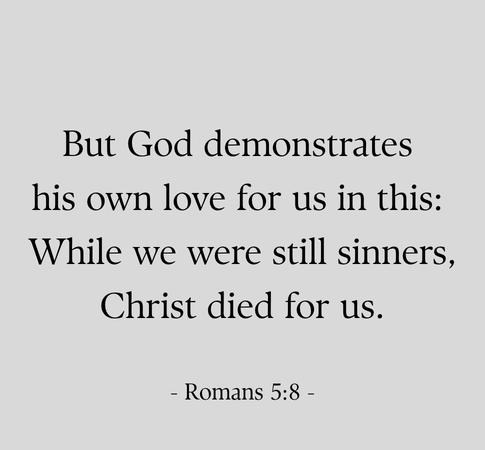
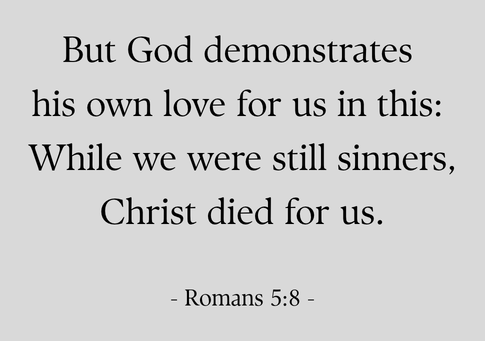
Thy Kingdom Come: subtitle under title, tighter crop on verse images
Adds optional `subtitle` frontmatter rendered under the post title.

diff --git a/src/lib/blog.ts b/src/lib/blog.ts
@@ -3,6 +3,7 @@ import { GENERATED_POSTS } from "@/lib/generated-posts";
 export type BlogPostMeta = {
   slug: string;
   title: string;
+  subtitle?: string;
   date: string;
   excerpt: string;
   coverImage?: string;
@@ -13,9 +14,10 @@ export type BlogPost = BlogPostMeta & {
 };
 
 export function getAllPosts(): BlogPostMeta[] {
-  return GENERATED_POSTS.map(({ slug, title, date, excerpt, coverImage }) => ({
+  return GENERATED_POSTS.map(({ slug, title, subtitle, date, excerpt, coverImage }) => ({
     slug,
     title,
+    subtitle: subtitle ?? undefined,
     date,
     excerpt,
     coverImage: coverImage ?? undefined,
@@ -28,6 +30,7 @@ export function getPostBySlug(slug: string): BlogPost | null {
 
   return {
     ...post,
+    subtitle: post.subtitle ?? undefined,
     coverImage: post.coverImage ?? undefined,
   };
 }

diff --git a/src/app/blog/[slug]/page.tsx b/src/app/blog/[slug]/page.tsx
@@ -58,6 +58,11 @@ export default async function BlogPostPage({
         <h1 className="font-display text-3xl font-bold leading-tight text-charcoal sm:text-4xl">
           {post.title}
         </h1>
+        {post.subtitle && (
+          <p className="mt-2 font-display text-xl font-semibold leading-snug text-charcoal/80">
+            {post.subtitle}
+          </p>
+        )}
         <div className="mt-2">
           <PostMeta date={post.date} author="Joe Caruso" />
         </div>

diff --git a/src/content/blog/thy-kingdom-come.md b/src/content/blog/thy-kingdom-come.md
@@ -1,13 +1,12 @@
 ---
 title: "Thy Kingdom Come"
+subtitle: "Radical Teachings From the Sermon on the Mount"
 date: "2026-11-27"
 excerpt: "When the crowd heard Jesus say the words “Thy kingdom come,” they expected a political revolution. But Jesus had something else in mind…"
 coverImage: "/images/blog/26-11.png"
 ---
 
 ## **Thy Kingdom Come**
-
-### **Radical Teachings From the Sermon on the Mount**
 
 #### By Joe Caruso Stories
 
